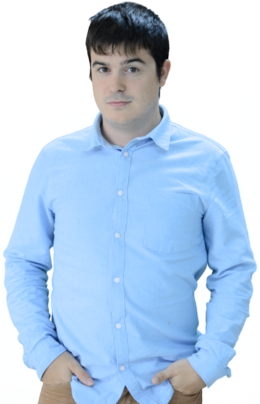
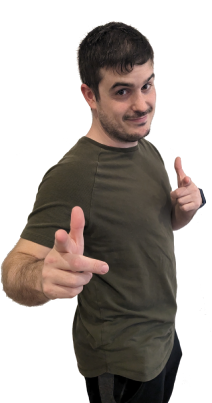
Update my picture and some creations

diff --git a/src/app/components/section-creations/section-creations.component.html b/src/app/components/section-creations/section-creations.component.html
@@ -49,27 +49,27 @@
           <h4>ScapeBox</h4>
           <p>Diseño y construcción de un reto de apertura de una caja misteriosa con pruebas de lógica e ingenio. Todo por aprender algo de electrónica con arduino.</p>
           <p class="status">Foto <a target="_blank" href="assets/img/creations/scapebox.jpg">aquí</a></p>
+      
         </mat-card>
       </div>
       <div class="col-sm-6 p-1" data-aos="zoom-in">
         <mat-card>
           <h4>Rest Coding Game</h4>
           <p>Aplicación con la que enseñar lo que es y cómo se utiliza una API REST de una manera “gamificada” y practicar la implementación de algoritmos para la resolución más óptima de juegos.</p>
-          <p class="status">Disponible <a href="https://rest-coding-game.miyoda.es">aquí</a></p>
-        </mat-card>
-      </div>
-      <div class="col-sm-6 p-1" data-aos="zoom-in">
-        <mat-card>
-          <h4>Meetings Panel</h4>
-          <p>Aplicación para facilitar las reuniones mejorando su efectividad y aprovecho.</p>
-          <p class="status">Desarrollo pausado</p>
+          <p class="status">Captura <a target="_blank" href="assets/img/creations/rest-coding-game2.png">aquí</a></p>
         </mat-card>
       </div>
       <div class="col-sm-6 p-1" data-aos="zoom-in">
         <mat-card>
           <h4>Desfiniciones</h4>
           <p>Juego multijugador sobre definiciones de palabras del diccionario.</p>
-          <p class="status">Beta disponible <a href="https://desfiniciones.miyoda.es/">aquí</a></p>
+          <p class="status">Captura <a target="_blank" href="assets/img/creations/desfiniciones.png">aquí</a></p>
+        </mat-card>
+      </div>
+      <div class="col-sm-6 p-1" data-aos="zoom-in">
+        <mat-card>
+          <h4>Crypto judge</h4>
+          <p>Arquitectura de procesos de arbitraje de criptomenedas en DeFi.</p>
         </mat-card>
       </div>
     </div>

diff --git a/src/app/components/section-creations/section-creations.component.scss b/src/app/components/section-creations/section-creations.component.scss
@@ -23,3 +23,23 @@
   text-decoration: solid;
   color: orange;
 }
+
+
+::ng-deep {
+  .photo-tooltip-rcg, .photo-tooltip-scapebox {
+    background-size: cover;
+    background-position: center;
+    height: 200px;
+    width: 250px;
+    color: #ffffff00 !important;
+  }
+
+  .photo-tooltip-rcg {
+    background-image: url("../../../assets/img/creations/rest-coding-game2.png");
+  }
+
+  .photo-tooltip-scapebox {
+    background-image: url("../../../assets/img/creations/scapebox.jpg");
+  }
+
+}
